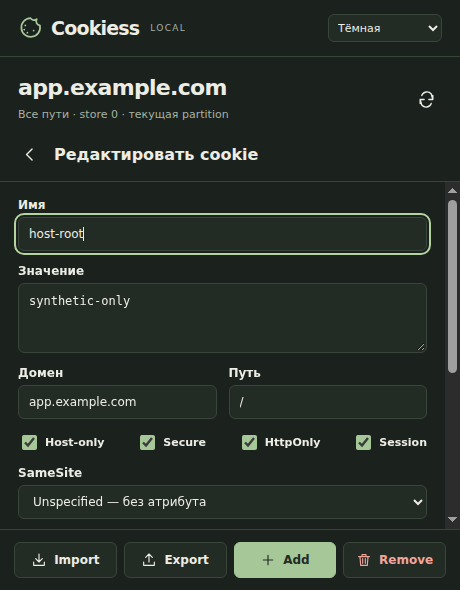
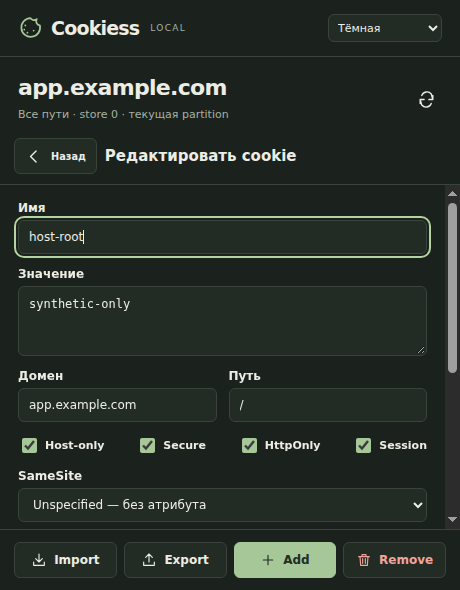
Make Back visible on every action screen

diff --git a/src/main.ts b/src/main.ts
@@ -211,14 +211,14 @@ async function reload() {
 function backHeader(title: string) {
   const bar = el('div', 'panel-title');
   const back = button(
-    '',
+    'Назад',
     () => {
       if (leave()) {
         screen = 'list';
         renderList();
       }
     },
-    'icon-button',
+    'back-button',
     'back',
   );
   back.setAttribute('aria-label', 'Назад к списку');

diff --git a/src/style.css b/src/style.css
@@ -400,6 +400,15 @@ h2 {
   border-bottom: 1px solid var(--line);
   flex-shrink: 0;
 }
+.back-button {
+  flex-shrink: 0;
+  min-height: 36px;
+  padding: 7px 10px;
+}
+.panel-title h2 {
+  min-width: 0;
+  font-size: 15px;
+}
 .form {
   padding: 16px 18px;
   display: flex;

diff --git a/scripts/verify-package.py b/scripts/verify-package.py
@@ -4,7 +4,8 @@ from pathlib import Path
 from zipfile import ZipFile
 
 root = Path("dist")
-with ZipFile("artifacts/cookiess-1.0.0.zip") as archive:
+version = json.loads(Path("package.json").read_text())["version"]
+with ZipFile(f"artifacts/cookiess-{version}.zip") as archive:
   names = set(archive.namelist())
   expected = {str(p.relative_to(root)).replace("\\", "/") for p in root.rglob("*") if p.is_file()}
   assert names == expected, "ZIP file set differs from dist"
@@ -12,7 +13,7 @@ with ZipFile("artifacts/cookiess-1.0.0.zip") as archive:
     assert archive.read(name) == (root / name).read_bytes(), f"Content differs: {name}"
   manifest = json.loads(archive.read("manifest.json"))
   assert manifest["manifest_version"] == 3
-  assert manifest["version"] == "1.0.0"
+  assert manifest["version"] == version
   for resource in [manifest["action"]["default_popup"], *manifest["icons"].values(), *manifest["action"]["default_icon"].values()]:
     assert resource in names, f"Missing manifest resource: {resource}"
 print("ZIP matches dist; MV3 manifest and referenced resources verified.")

diff --git a/VERIFICATION.md b/VERIFICATION.md
@@ -78,3 +78,11 @@ Manual before a future Store release: load ZIP unpacked with Developer mode in s
 - Privacy page desktop/mobile layouts and support links checked in headless Chromium.
 - MIT license added by explicit user choice; bilingual privacy policy, static public policy page and reviewer checklist prepared.
 - Stable Windows/macOS browser behavior, Chrome 132, direct clipboard success, native TXT download, screen-reader and exhaustive concurrency checks remain pending as recorded above and in store/REVIEW.md. No Store submission, publisher account setup or paid service was performed.
+
+## Navigation fix — 1.0.1
+
+The action-header arrow now includes a visible «Назад» label on Export, Import, Add, edit and Remove screens. It remains outside the scrolling form. All 21 native popup checks passed in isolated Linux Chrome for Testing 154.0.8037.92, including returning from each footer action after scrolling and rejecting/accepting the dirty-form confirmation. Existing edit and import return paths use the same checked Back helper. [Export screenshot](screenshots/export-back.png).
+
+Typecheck, lint, 20 unit tests, build/package and exact ZIP/manifest resource validation passed. Versioned packaging reads package.json and checks manifest version consistency; CI collects the generated versioned ZIP. Own MIT notice is now included alongside third-party notices.
+
[1 lines of base64/hex data omitted]

diff --git a/README.md b/README.md
@@ -8,7 +8,7 @@
 
 ## Установка готовой сборки
 
-1. Скачайте ZIP из [релиза 1.0.0](https://github.com/smallp80380/cookiess/releases/tag/v1.0.0) и распакуйте в отдельную папку. При сборке из исходников используйте `dist/` или `artifacts/cookiess-1.0.0.zip`.
+1. Скачайте ZIP из [последнего релиза](https://github.com/smallp80380/cookiess/releases/latest) и распакуйте в отдельную папку. При сборке из исходников используйте `dist/` или `artifacts/cookiess-1.0.1.zip`.
 2. В Chrome откройте `chrome://extensions` и включите «Режим разработчика».
 3. Нажмите «Загрузить распакованное расширение» и выберите папку с `manifest.json`.
 4. Закрепите Cookiess в панели расширений. Откройте HTTP/HTTPS-сайт и нажмите иконку.

diff --git a/store/LISTING.md b/store/LISTING.md
@@ -1,7 +1,7 @@
 # Chrome Web Store listing — Russian
 
 Name: Cookiess
-Version: 1.0.0
+Version: 1.0.1
 Language: Russian (ru)
 Proposed category: Developer Tools (confirm the available dashboard category before submission).
 
@@ -32,7 +32,7 @@ Project: https://github.com/smallp80380/cookiess
 
 ## Uploads
 
-Package: release `v1.0.0`, `cookiess-1.0.0.zip`.
+Package: release `v1.0.1`, `cookiess-1.0.1.zip`.
 Screenshots, in order: `assets/01-list.png`, `02-editor.png`, `03-import.png`, `04-dark.png` (1280×800).
 Small promotional tile: `assets/promo-440x280.png` (440×280).
 Icon: `../public/icons/128.png` (128×128).

diff --git a/CHROMEWEBSTORE.md b/CHROMEWEBSTORE.md
@@ -1,7 +1,7 @@
 # Chrome Web Store preparation (not published)
 
 ## Single purpose
-Manage cookies applicable to the active website: view, create, edit, delete, and locally import/export them. Product name: Cookiess. Version: 1.0.0. Minimum Chrome: 132. Main language: Russian.
+Manage cookies applicable to the active website: view, create, edit, delete, and locally import/export them. Product name: Cookiess. Version: 1.0.1. Minimum Chrome: 132. Main language: Russian.
 
 ## Proposed listing
 
